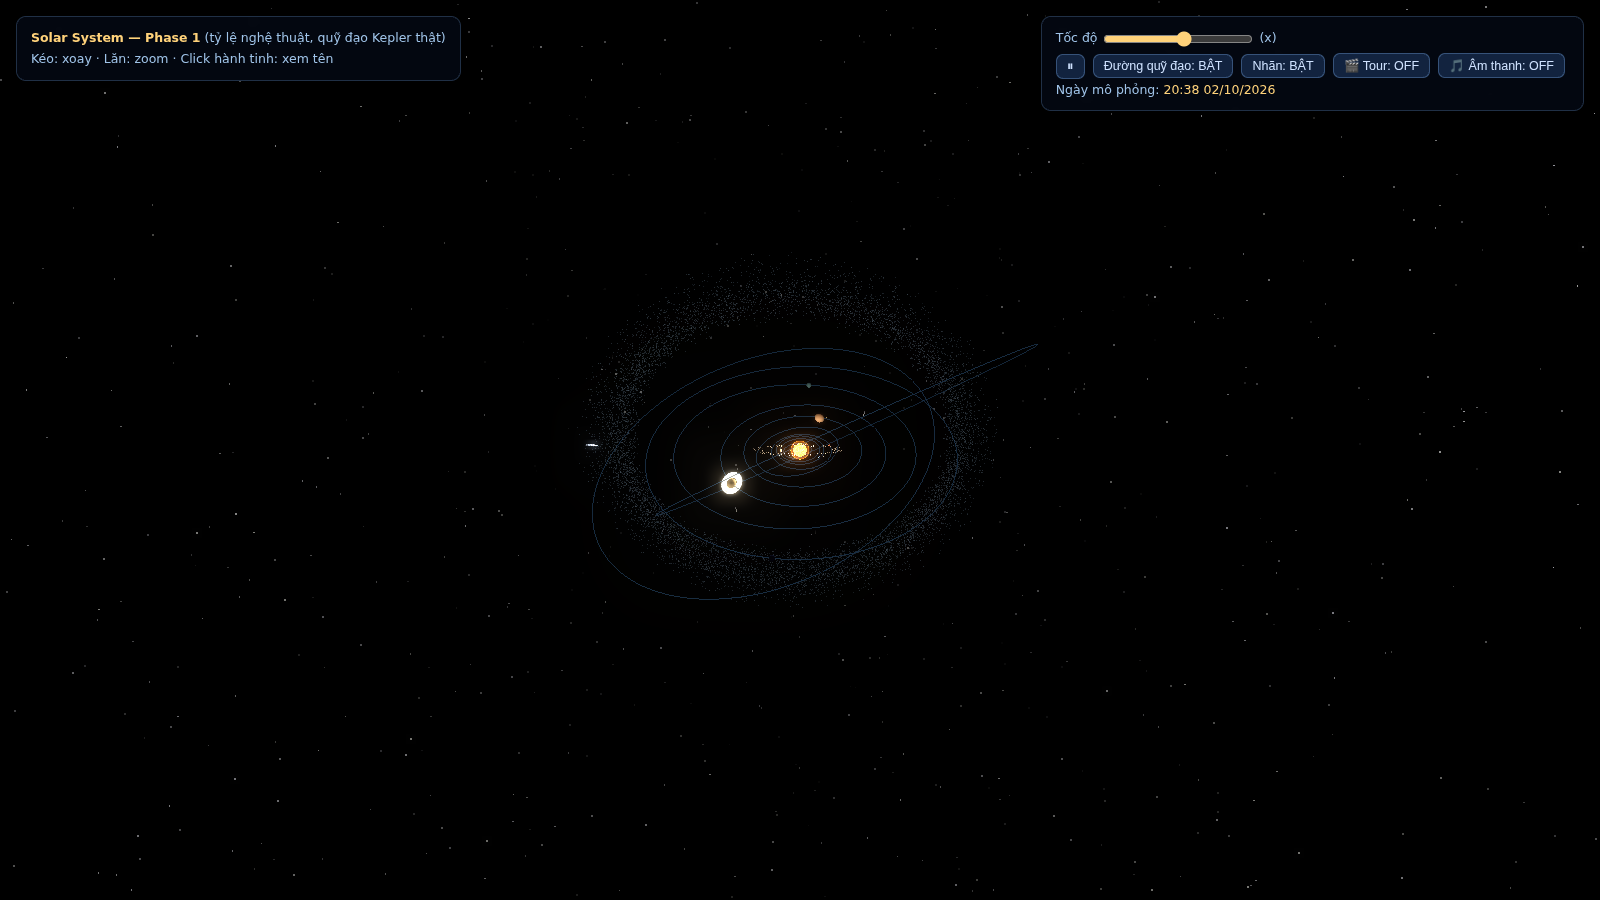
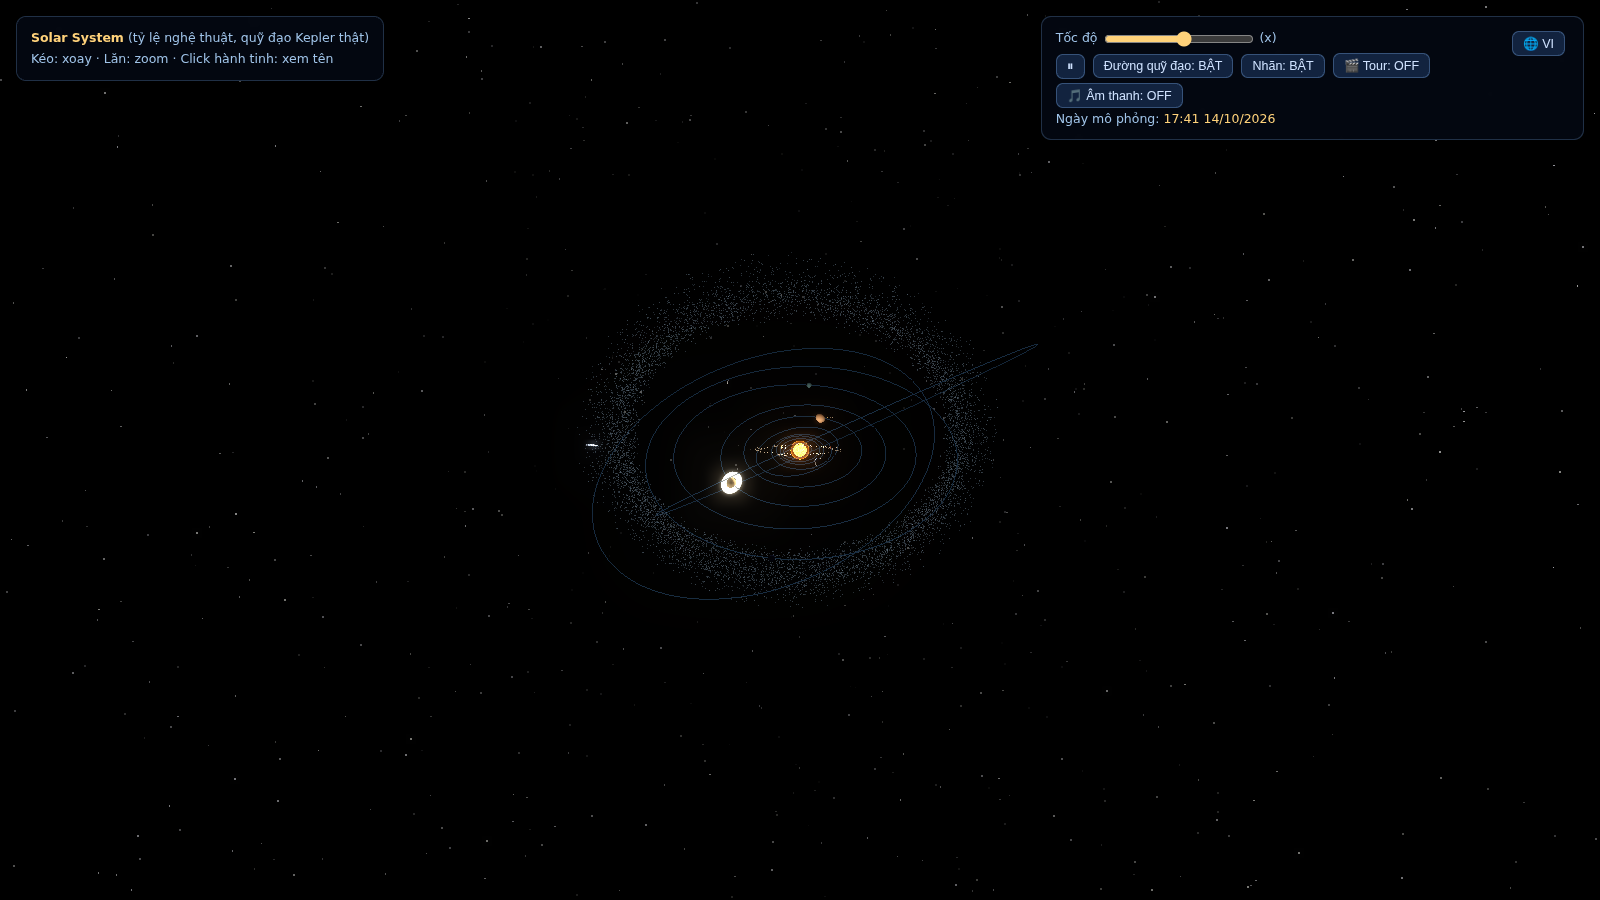
Perf: Kuiper belt Kepler tinh tren GPU (vertex shader) - CPU loop 8000 hat loai bo

Changed region(s): [[0.6562, 0.0933, 0.8125, 0.1556], [0.875, 0.0311, 1.0, 0.0933], [0.0938, 0.0311, 0.2812, 0.0622]]

diff --git a/public/index.html b/public/index.html
@@ -626,13 +626,69 @@ let meteorUpdater = null;
   const kg = new THREE.BufferGeometry();
   kg.setAttribute("position", new THREE.BufferAttribute(kPos, 3));
   kg.setAttribute("color", new THREE.BufferAttribute(kCol, 3));
-  const kuiper = new THREE.Points(kg, new THREE.PointsMaterial({
-    size: 0.11, map: makeGlowTexture(), vertexColors: true,
-    transparent: true, opacity: 0.75, blending: THREE.AdditiveBlending,
-    depthWrite: false, sizeAttenuation: true,
-  }));
+  // attributes cho GPU-side Kepler: tính vị trí trong vertex shader
+  // (CPU chỉ set uDays — không còn vòng lặp 8000 hạt mỗi frame)
+  const kA = new Float32Array(N_K), kE = new Float32Array(N_K),
+        kI = new Float32Array(N_K), kM = new Float32Array(N_K), kT = new Float32Array(N_K);
+  for (let i = 0; i < N_K; i++) {
+    kA[i] = kData[i].a; kE[i] = kData[i].e; kI[i] = kData[i].inc;
+    kM[i] = kData[i].M0; kT[i] = kData[i].T;
+  }
+  kg.setAttribute("aA", new THREE.BufferAttribute(kA, 1));
+  kg.setAttribute("aE", new THREE.BufferAttribute(kE, 1));
+  kg.setAttribute("aI", new THREE.BufferAttribute(kI, 1));
+  kg.setAttribute("aM", new THREE.BufferAttribute(kM, 1));
+  kg.setAttribute("aT", new THREE.BufferAttribute(kT, 1));
+  // nén scale theo a (distScale) tính sẵn vào aA để shader đơn giản
+  const kMat = new THREE.ShaderMaterial({
+    transparent: true, depthWrite: false,
+    blending: THREE.AdditiveBlending,
+    uniforms: {
+      uDays: { value: 0 },
+      uMap:  { value: makeGlowTexture() },
+      uSize: { value: 0.11 },
+    },
+    vertexShader: /* glsl */`
+      attribute float aA, aE, aI, aM, aT;
+      attribute vec3 color;
+      uniform float uDays, uSize;
+      varying vec3 vColor2;
+      varying vec3 vCol;
+      // Newton-Raphson giải M = E - e*sin(E) ngay trên GPU
+      float solveK(float M, float e) {
+        float E = M;
+        for (int k = 0; k < 5; k++) E = E - (E - e * sin(E) - M) / (1.0 - e * cos(E));
+        return E;
+      }
+      void main() {
+        float M = aM + 6.283185 * (uDays / aT);
+        M = mod(mod(M, 6.283185) + 6.283185, 6.283185);
+        float E = solveK(M, aE);
+        float sc = 11.0 * pow(aA, 0.55) / aA;           // distScale nén sẵn
+        vec3 p;
+        p.x = aA * (cos(E) - aE) * sc;
+        float yO = aA * sqrt(1.0 - aE * aE) * sin(E) * sc;
+        p.y = yO * cos(aI);
+        p.z = yO * sin(aI);
+        vCol = color;
+        vec4 mv = modelViewMatrix * vec4(p, 1.0);
+        gl_PointSize = uSize * (240.0 / -mv.z);
+        gl_Position = projectionMatrix * mv;
+      }
+    `,
+    fragmentShader: /* glsl */`
+      uniform sampler2D uMap;
+      varying vec3 vCol;
+      void main() {
+        vec4 tex = texture2D(uMap, gl_PointCoord);
+        gl_FragColor = vec4(vCol, 1.0) * tex;
+      }
+    `,
+  });
+  const kuiper = new THREE.Points(kg, kMat);
+  kg.getAttribute("position").setUsage(THREE.StaticDrawUsage);   // vị trí do shader quyết định
   scene.add(kuiper);
-  kuiperBelt = { geo: kg, data: kData, n: N_K };
+  kuiperBelt = { mat: kMat, n: N_K };
 }
 
 // ======================================================================
@@ -945,22 +1001,8 @@ function animate() {
     }
   }
 
-  // ---- Vành đai Kuiper: vị trí Kepler per-object ----
-  if (kuiperBelt && !ST.paused) {
-    const pos = kuiperBelt.geo.attributes.position.array;
-    for (let i = 0; i < kuiperBelt.n; i++) {
-      const d = kuiperBelt.data[i];
-      const M = d.M0 + 2 * Math.PI * (ST.days / d.T);
-      const E = solveKepler(((M % 6.283185) + 6.283185) % 6.283185, d.e);
-      const xO = d.a * (Math.cos(E) - d.e);
-      const yO = d.a * Math.sqrt(1 - d.e * d.e) * Math.sin(E);
-      const s = distScale(d.a) / d.a;
-      pos[i * 3] = xO * s;
-      pos[i * 3 + 1] = yO * Math.cos(d.inc) * s;
-      pos[i * 3 + 2] = yO * Math.sin(d.inc) * s;
-    }
-    kuiperBelt.geo.attributes.position.needsUpdate = true;
-  }
+  // ---- Vành đai Kuiper: GPU-side Kepler (chỉ set uniform thời gian) ----
+  if (kuiperBelt) kuiperBelt.mat.uniforms.uDays.value = ST.days;
 
   // ---- Sao chổi + mưa sao băng ----
   if (cometUpdater) cometUpdater(ST.days);
